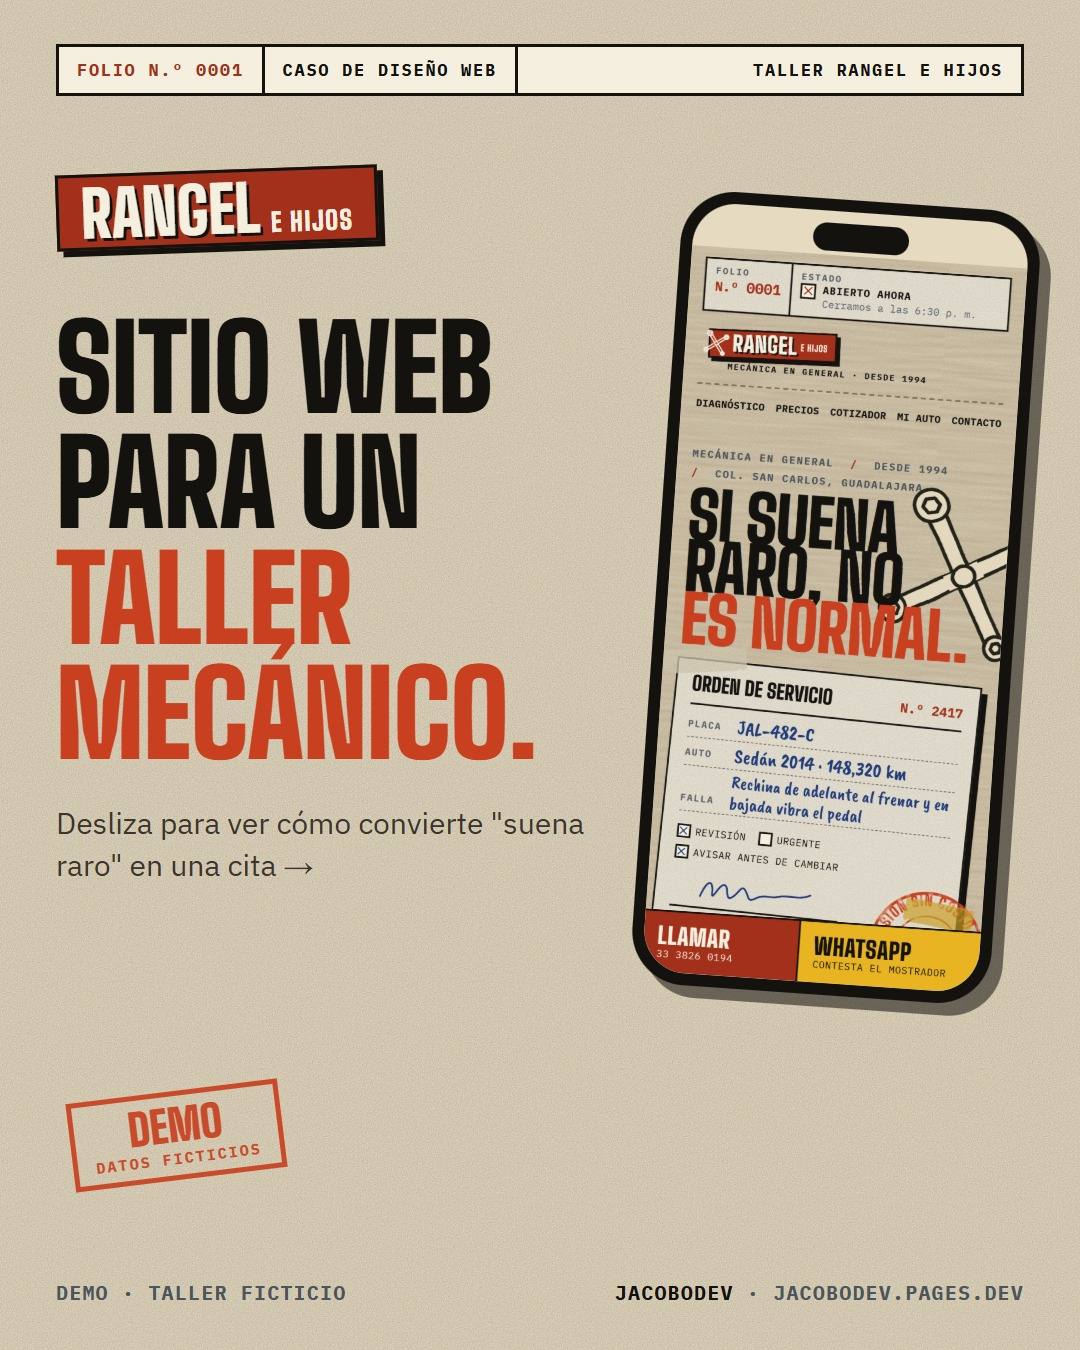
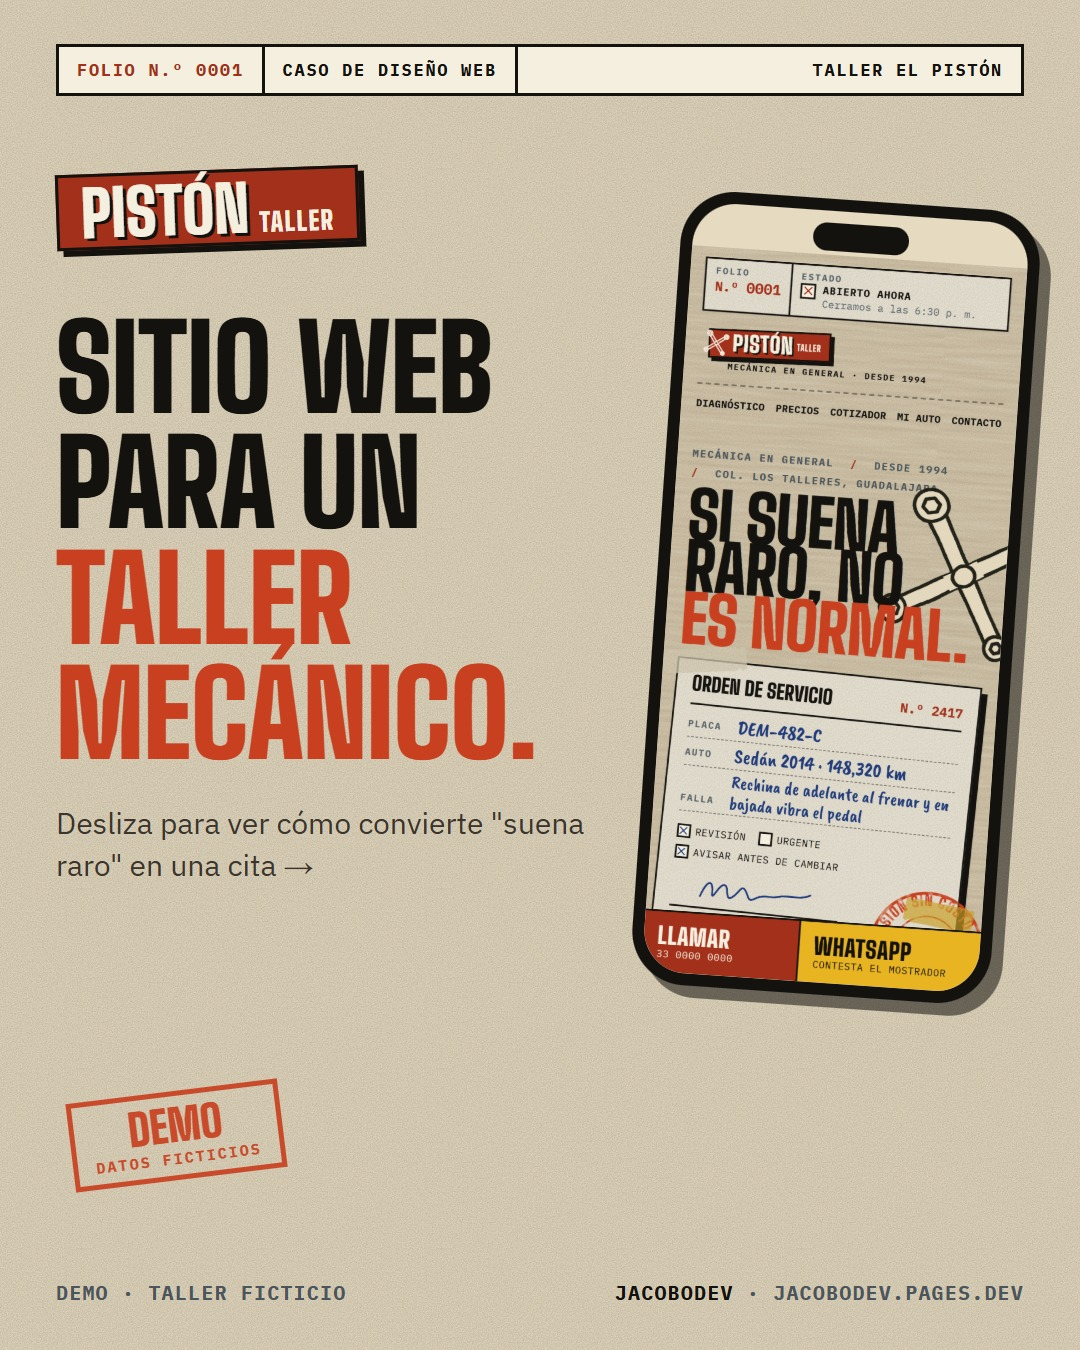
Renombra la demo a "Taller El Pistón" y quita datos que parecían reales
- Marca: Taller El Pistón (rótulo PISTÓN), slug taller-el-piston
- Teléfono 33 0000 0000, correo en dominio .example, dirección y calles
  del croquis inventadas (Calle Biela, Col. Los Talleres)
- Placas de prueba DEM-xxx-x; sin apellidos, calles ni escuelas reales
- OG, contenido para redes y videos regenerados con el nombre nuevo

diff --git a/tests/seguimiento.test.ts b/tests/seguimiento.test.ts
@@ -7,11 +7,11 @@ const orden = (placa: string) => buscarOrden(ordenesDemo, placa)!;
 
 describe('placas', () => {
   it('normaliza espacios, guiones y minúsculas', () => {
-    expect(normalizarPlaca(' jal 482-c ')).toBe('JAL482C');
+    expect(normalizarPlaca(' dem 482-c ')).toBe('DEM482C');
   });
 
   it('encuentra la orden aunque se escriba distinto', () => {
-    expect(buscarOrden(ordenesDemo, 'jal482c')?.folio).toBe('2417');
+    expect(buscarOrden(ordenesDemo, 'dem482c')?.folio).toBe('2417');
     expect(buscarOrden(ordenesDemo, 'XXX-000')).toBeUndefined();
     expect(buscarOrden(ordenesDemo, '   ')).toBeUndefined();
   });
@@ -30,14 +30,14 @@ describe('leerEstado', () => {
   });
 
   it('descarta autorizaciones con valores no numéricos', () => {
-    const e = leerEstado(JSON.stringify({ inicio: 5, autorizaciones: { 'jal-482-c': 10, x: 'y' } }), T0);
-    expect(e).toEqual({ inicio: 5, autorizaciones: { JAL482C: 10 } });
+    const e = leerEstado(JSON.stringify({ inicio: 5, autorizaciones: { 'dem-482-c': 10, x: 'y' } }), T0);
+    expect(e).toEqual({ inicio: 5, autorizaciones: { DEM482C: 10 } });
   });
 });
 
 describe('vistaOrden y autorizar', () => {
   it('ancla el historial al inicio de la demo y lo ordena', () => {
-    const v = vistaOrden(orden('JAL-482-C'), estadoInicial(T0));
+    const v = vistaOrden(orden('DEM-482-C'), estadoInicial(T0));
     expect(v.historial[0].en).toBe(T0 - 230 * 60_000);
     const horas = v.historial.map((e) => e.en);
     expect(horas).toEqual([...horas].sort((a, b) => a - b));
@@ -48,9 +48,9 @@ describe('vistaOrden y autorizar', () => {
 
   it('autorizar pasa la orden a "En reparación" y agrega el evento con hora', () => {
     const demo = estadoInicial(T0);
-    const despues = autorizar(demo, orden('JAL-482-C'), T0 + 60_000);
+    const despues = autorizar(demo, orden('DEM-482-C'), T0 + 60_000);
     expect(demo.autorizaciones).toEqual({}); // no muta
-    const v = vistaOrden(orden('JAL-482-C'), despues);
+    const v = vistaOrden(orden('DEM-482-C'), despues);
     expect(v.estado).toBe('reparacion');
     expect(v.autorizado).toBe(true);
     expect(v.puedeAutorizar).toBe(false);
@@ -58,14 +58,14 @@ describe('vistaOrden y autorizar', () => {
   });
 
   it('autorizar dos veces no cambia nada', () => {
-    const una = autorizar(estadoInicial(T0), orden('JAL-482-C'), T0 + 1);
-    expect(autorizar(una, orden('JAL-482-C'), T0 + 2)).toBe(una);
+    const una = autorizar(estadoInicial(T0), orden('DEM-482-C'), T0 + 1);
+    expect(autorizar(una, orden('DEM-482-C'), T0 + 2)).toBe(una);
   });
 
   it('no se puede autorizar una orden en diagnóstico (sin presupuesto) ni una ya lista', () => {
     const demo = estadoInicial(T0);
-    expect(autorizar(demo, orden('JKL-305-A'), T0)).toBe(demo);
-    expect(autorizar(demo, orden('JNB-226-D'), T0)).toBe(demo);
+    expect(autorizar(demo, orden('DEM-305-A'), T0)).toBe(demo);
+    expect(autorizar(demo, orden('DEM-226-D'), T0)).toBe(demo);
   });
 });
 
@@ -83,6 +83,6 @@ describe('fechaEntrega', () => {
 
 describe('totales', () => {
   it('suma refacciones, mano de obra e IVA', () => {
-    expect(totales(orden('JAL-482-C'))).toEqual({ refacciones: 870, manoObra: 1050, subtotal: 1920, iva: 307, total: 2227 });
+    expect(totales(orden('DEM-482-C'))).toEqual({ refacciones: 870, manoObra: 1050, subtotal: 1920, iva: 307, total: 2227 });
   });
 });

diff --git a/src/config/site.ts b/src/config/site.ts
@@ -14,16 +14,16 @@ export interface OpeningSlot {
 }
 
 export const site = {
-  name: 'Taller Rangel e Hijos',
+  name: 'Taller El Pistón',
   /** Palabra que se pinta en el rótulo gigante del footer y en el logo */
-  rotulo: 'RANGEL',
-  rotuloSub: 'e Hijos',
-  legalName: 'Taller Rangel e Hijos — Mecánica en general',
+  rotulo: 'PISTÓN',
+  rotuloSub: 'Taller',
+  legalName: 'Taller El Pistón — Mecánica en general',
   tagline: 'Mecánica en general desde 1994',
   slogan: 'Primero se revisa; luego se habla de dinero.',
   description:
-    'Taller mecánico de barrio en la colonia San Carlos, Guadalajara. Frenos, suspensión, afinación, clutch, A/C y diagnóstico computarizado. Revisión sin costo si la reparación se hace aquí; presupuesto por escrito y garantía de 3 meses.',
-  url: 'https://taller-rangel.pages.dev',
+    'Taller mecánico de barrio en Guadalajara. Frenos, suspensión, afinación, clutch, A/C y diagnóstico computarizado. Revisión sin costo si la reparación se hace aquí; presupuesto por escrito y garantía de 3 meses.',
+  url: 'https://taller-el-piston.pages.dev',
   locale: 'es-MX',
   ogLocale: 'es_MX',
   currency: 'MXN',
@@ -31,29 +31,29 @@ export const site = {
   foundingYear: 1994,
 
   contact: {
-    phoneDisplay: '33 3826 0194',
+    phoneDisplay: '33 0000 0000',
     /** Formato E.164 para enlaces tel: */
-    phone: '+523338260194',
+    phone: '+523300000000',
     /** WhatsApp en formato internacional sin "+" ni espacios (para wa.me) */
-    whatsapp: '523338260194',
-    email: 'mostrador@taller-rangel-demo.mx',
+    whatsapp: '523300000000',
+    email: 'mostrador@taller-el-piston.example',
   },
 
   address: {
-    street: 'Calle Gigantes 1874',
-    neighborhood: 'Col. San Carlos',
+    street: 'Calle Biela 120',
+    neighborhood: 'Col. Los Talleres',
     city: 'Guadalajara',
     region: 'Jalisco',
-    postalCode: '44460',
+    postalCode: '44100',
     country: 'MX',
-    reference: 'Sobre Gigantes, casi esquina con Calle 46: el portón verde con el rótulo rojo. Si ves la llantera de la esquina, ya te pasaste.',
+    reference: 'Sobre Biela, casi esquina con Cigüeñal: el portón verde con el rótulo rojo. Si ves la llantera de la esquina, ya te pasaste.',
     /** Calles que se dibujan en el croquis (src/components/ui/Croquis.astro) */
-    croquis: { calle: 'C. Gigantes', cruce: 'Calle 46', avenida: 'Av. Revolución', esquina: 'llantera', parada: 'parada' },
+    croquis: { calle: 'C. Biela', cruce: 'C. Cigüeñal', avenida: 'Av. Principal', esquina: 'llantera', parada: 'parada' },
     parking: 'Cabemos 6 autos adentro mientras esperas tu diagnóstico. Sobre la calle hay lugar casi siempre después de las 10 a. m.',
-    transit: 'Si dejas el auto y te vas: la parada de camión de Av. Revolución está a dos cuadras.',
+    transit: 'Si dejas el auto y te vas: la parada de camión de la avenida principal está a dos cuadras.',
   },
 
-  geo: { lat: 20.6554, lng: -103.3297 },
+  geo: { lat: 20.6597, lng: -103.3496 },
 
   /** Horario semanal. Un arreglo vacío = cerrado. */
   hours: {

diff --git a/e2e/flujos.spec.ts b/e2e/flujos.spec.ts
@@ -18,7 +18,7 @@ test.describe('Orden de servicio', () => {
     await page.goto('/contacto');
     await page.getByRole('button', { name: 'Firmar y mandar por WhatsApp' }).click();
     await expect(page.locator('[data-resumen]')).toContainText('Faltan');
-    await page.fill('#o-placa', 'jal-482-c');
+    await page.fill('#o-placa', 'dem-482-c');
     await page.fill('#o-marca', 'Nissan');
     await page.fill('#o-modelo', 'Versa');
     await page.fill('#o-anio', '2014');
@@ -29,7 +29,7 @@ test.describe('Orden de servicio', () => {
     await page.getByRole('button', { name: 'Firmar y mandar por WhatsApp' }).click();
     const wa = await popup;
     expect(decodeURIComponent(wa.url().replaceAll('+', ' '))).toContain('ORDEN DE SERVICIO');
-    expect(decodeURIComponent(wa.url().replaceAll('+', ' '))).toContain('Placa: JAL-482-C');
+    expect(decodeURIComponent(wa.url().replaceAll('+', ' '))).toContain('Placa: DEM-482-C');
   });
 });
 
@@ -54,8 +54,8 @@ test.describe('Seguimiento por placa', () => {
     const b = await context.newPage();
     await a.goto('/seguimiento');
     await a.getByRole('button', { name: 'Restablecer demo' }).click();
-    await a.getByRole('button', { name: 'JAL-482-C' }).click();
-    await b.goto('/seguimiento?placa=JAL-482-C');
+    await a.getByRole('button', { name: 'DEM-482-C' }).click();
+    await b.goto('/seguimiento?placa=DEM-482-C');
     await expect(b.locator('[aria-current="step"]')).toContainText('Autorización');
 
     await a.getByRole('button', { name: 'Autorizar reparación' }).click();
@@ -91,7 +91,7 @@ test.describe('Responsive', () => {
   for (const ancho of [360, 390, 768, 1024, 1280, 1536]) {
     test(`sin scroll horizontal a ${ancho}px`, async ({ page }) => {
       await page.setViewportSize({ width: ancho, height: 900 });
-      for (const ruta of ['/', '/servicios', '/presupuesto', '/seguimiento?placa=JHT-917-B', '/contacto', '/404']) {
+      for (const ruta of ['/', '/servicios', '/presupuesto', '/seguimiento?placa=DEM-917-B', '/contacto', '/404']) {
         await page.goto(ruta);
         const sobra = await page.evaluate(() => document.documentElement.scrollWidth - innerWidth);
         expect(sobra, `${ruta} @${ancho}`).toBeLessThanOrEqual(0);

diff --git a/src/data/equipo.ts b/src/data/equipo.ts
@@ -22,17 +22,17 @@ export interface Mecanico {
 
 export const equipo: Mecanico[] = [
   {
-    nombre: 'Ramiro Rangel',
+    nombre: 'Ramiro Ortiz',
     apodo: 'El Patrón',
     desde: 1983,
     especialidad: 'Motor y ruidos raros. Diagnostica con el oído antes que con el escáner.',
-    herramienta: 'Una Stillson de 1987 que heredó de su maestro en la calle Medrano.',
+    herramienta: 'Una Stillson de 1987 que heredó del maestro que le enseñó el oficio.',
     frase: '“Si me lo traes a tiempo, te sale barato.”',
     foto: stillson,
     fotoAlt: 'Llave Stillson y llave ajustable sobre fondo oscuro',
   },
   {
-    nombre: 'Iván Rangel',
+    nombre: 'Iván Ortiz',
     apodo: 'El Chato',
     desde: 2006,
     especialidad: 'Frenos, suspensión y dirección. Si truena en los topes, es suyo.',
@@ -52,10 +52,10 @@ export const equipo: Mecanico[] = [
     fotoAlt: 'Mano sosteniendo un multímetro digital amarillo',
   },
   {
-    nombre: 'Daniela Rangel',
+    nombre: 'Daniela Ortiz',
     apodo: 'La Inge',
     desde: 2017,
-    especialidad: 'Aire acondicionado y transmisiones automáticas. Ingeniera mecánica por la UdeG.',
+    especialidad: 'Aire acondicionado y transmisiones automáticas. Ingeniera mecánica titulada.',
     herramienta: 'El juego de manómetros del A/C. Les puso su nombre con plumón.',
     frase: '“Cargar gas sin buscar la fuga es tirar dinero.”',
     foto: manometro,

diff --git a/src/data/ordenes.ts b/src/data/ordenes.ts
@@ -52,7 +52,7 @@ export const estados: { id: EstadoId; nombre: string; corto: string }[] = [
 export const ordenesDemo: OrdenDemo[] = [
   {
     folio: '2417',
-    placa: 'JAL-482-C',
+    placa: 'DEM-482-C',
     auto: 'Sedán 2014 · 4 cilindros',
     color: 'Gris plata',
     km: 148_320,
@@ -85,7 +85,7 @@ export const ordenesDemo: OrdenDemo[] = [
   },
   {
     folio: '2418',
-    placa: 'JKL-305-A',
+    placa: 'DEM-305-A',
     auto: 'Pickup 2019 · doble cabina',
     color: 'Blanco',
     km: 92_100,
@@ -107,7 +107,7 @@ export const ordenesDemo: OrdenDemo[] = [
   },
   {
     folio: '2409',
-    placa: 'JHT-917-B',
+    placa: 'DEM-917-B',
     auto: 'SUV 2017 · automática',
     color: 'Rojo',
     km: 121_870,
@@ -138,7 +138,7 @@ export const ordenesDemo: OrdenDemo[] = [
   },
   {
     folio: '2402',
-    placa: 'JNB-226-D',
+    placa: 'DEM-226-D',
     auto: 'Compacto 2012 · estándar',
     color: 'Azul',
     km: 203_450,

diff --git a/src/lib/seguimiento.ts b/src/lib/seguimiento.ts
@@ -5,7 +5,7 @@
 import { estados, type EstadoId, type OrdenDemo } from '@/data/ordenes';
 import { IVA } from '@/lib/cotizador';
 
-export const CLAVE_DEMO = 'rangel:seguimiento:v1';
+export const CLAVE_DEMO = 'piston:seguimiento:v1';
 
 /** Lo único que se guarda en localStorage */
 export interface EstadoDemo {
@@ -29,7 +29,7 @@ export interface OrdenVista extends Omit<OrdenDemo, 'historial'> {
   entrega: number;
 }
 
-/** "jal 482c", "JAL-482-C" y "jal482c" son la misma placa. */
+/** "dem 482c", "DEM-482-C" y "dem482c" son la misma placa. */
 export const normalizarPlaca = (placa: string) => placa.toUpperCase().replace(/[^A-Z0-9]/g, '');
 
 export const pasoDe = (estado: EstadoId) => estados.findIndex((e) => e.id === estado);

diff --git a/tests/orden.test.ts b/tests/orden.test.ts
@@ -4,7 +4,7 @@ import { openStatus } from '@/lib/horario';
 import { site } from '@/config/site';
 
 const ok: DatosOrden = {
-  placa: 'jal-482-c',
+  placa: 'dem-482-c',
   marca: 'Nissan',
   modelo: 'Versa',
   anio: '2014',
@@ -37,7 +37,7 @@ describe('mensajeOrden', () => {
   it('formatea el mensaje de WhatsApp como orden de servicio', () => {
     const m = mensajeOrden(ok, '2419');
     expect(m.split('\n')[0]).toBe('*ORDEN DE SERVICIO N.º 2419*');
-    expect(m).toContain('Placa: JAL-482-C');
+    expect(m).toContain('Placa: DEM-482-C');
     expect(m).toContain('Auto: Nissan Versa 2014');
     expect(m).toContain('Kilometraje: 148,320 km');
     expect(m).toContain('Tel.: 3312345678');

diff --git a/DISENO.md b/DISENO.md
@@ -1,4 +1,4 @@
-# DISEÑO — Taller Rangel e Hijos
+# DISEÑO — Taller El Pistón
 
 > Contrato de dirección de arte. Si algo del sitio no cabe aquí, no entra.
 
@@ -79,7 +79,7 @@ El contraste de **tamaño** es el protagonista: un titular de 17 vw junto a un p
 | H | Notas de clientes | **Tablero perforado (pegboard)**: 6 papelitos de tamaños distintos clavados con tachuela o cinta sobre un fondo de agujeros | masonry manual, 3 alturas |
 | I | Preguntas | **Columna angosta de casillas**: FAQ como renglones ☐/☒ de formulario en una columna estrecha a la izquierda; a la derecha mucho vacío con una sola nota de plumón | 7 / 5 vacío intencional |
 | J | Orden de servicio (CTA) | **Hoja con talón desprendible**: formulario a la izquierda, talón perforado a la derecha con el folio y "conserve este talón" | 9 / 3 con perforación vertical |
-| K | Footer | **Rótulo gigante cortado**: "RANGEL" a 30 vw cortado por el borde inferior, datos en tabla mono arriba, croquis dibujado con marco de foto pegada (el mapa real se carga al pedirlo) | 3 bloques + rótulo a sangre |
+| K | Footer | **Rótulo gigante cortado**: "PISTÓN" a 30 vw cortado por el borde inferior, datos en tabla mono arriba, croquis dibujado con marco de foto pegada (el mapa real se carga al pedirlo) | 3 bloques + rótulo a sangre |
 
 Entre B y C va la **cinta de precaución 1**; entre H e I corre el **marquee** único; la **cinta de precaución 2** es la orilla superior del footer: es el mismo elemento en todas las páginas, así que el sitio nunca muestra más de dos cintas a la vez.
 
@@ -134,7 +134,7 @@ Reglas: textura siempre por debajo del 20 % de opacidad; máximo **una** mancha 
 1. Hero: la hoja de orden llenada a mano (placa, falla, firma).
 2. Lista de precios: "incluye filtro ✓".
 3. Lista de precios: precio tachado corregido "ya bajó".
-4. Pizarrón: "Pruébalo con la placa JAL-482-C" (con filtro de gis).
+4. Pizarrón: "Pruébalo con la placa DEM-482-C" (con filtro de gis).
 5. Equipo: "el Chato no presta su matraca".
 6. Notas de clientes: el único papelito escrito a mano.
 7. FAQ: "Pregunta lo que quieras. Aquí nadie se ríe."

diff --git a/social/copys.md b/social/copys.md
@@ -1,12 +1,12 @@
-# Copys para redes · Demo Taller Rangel e Hijos
+# Copys para redes · Demo Taller El Pistón
 
 > El taller, los mecánicos, los precios, las órdenes y las reseñas son **ficticios**. Preséntalo como demo o plantilla, no como trabajo para un cliente real.
 
 | Archivo | Formato | Uso |
 | --- | --- | --- |
-| `video/rangel-reel-interacciones-9x16.mp4` | 1080×1920 | Reel / TikTok / Shorts principal (diagnóstico, precios, odómetro, sellos, cotizador y seguimiento) |
-| `video/rangel-reel-recorrido-9x16.mp4` | 1080×1920 | Reel de recorrido con scroll suave; también para estado de WhatsApp (recórtalo a 30 s) |
-| `video/rangel-recorrido-16x9.mp4` | 1920×1080 | LinkedIn / YouTube / Facebook |
+| `video/piston-reel-interacciones-9x16.mp4` | 1080×1920 | Reel / TikTok / Shorts principal (diagnóstico, precios, odómetro, sellos, cotizador y seguimiento) |
+| `video/piston-reel-recorrido-9x16.mp4` | 1080×1920 | Reel de recorrido con scroll suave; también para estado de WhatsApp (recórtalo a 30 s) |
+| `video/piston-recorrido-16x9.mp4` | 1920×1080 | LinkedIn / YouTube / Facebook |
 | `video/*-portada.jpg` | 9:16 y 16:9 | Portada del video |
 | `carrusel/01.jpg` … `08.jpg` | 1080×1350 | Carrusel de Instagram / documento de LinkedIn |
 | `posts/01-post-escritorio-movil.jpg` | 1080×1350 | Post individual |
@@ -91,7 +91,7 @@ Texto sugerido para el sticker: **"¿Así se vería tu taller?"** + sticker de e
 
 ## LinkedIn · video 16:9
 
-Nuevo caso de diseño web: **Taller Rangel e Hijos**, un taller mecánico de barrio (demo con datos ficticios).
+Nuevo caso de diseño web: **Taller El Pistón**, un taller mecánico de barrio (demo con datos ficticios).
 
 El reto era evitar el sitio "genérico de plantilla" que tienen casi todos los talleres. La dirección de arte sale de los papeles del propio taller: la orden de servicio con folio, los sellos de goma, la lista de precios de la pared y el pizarrón con gis.
 

diff --git a/README.md b/README.md
@@ -1,6 +1,6 @@
-# Taller Rangel e Hijos: demo
+# Taller El Pistón: demo
 
-Sitio de demostración de un taller mecánico de barrio en la colonia San Carlos, Guadalajara. El taller, los mecánicos, los precios, las órdenes y las reseñas son ficticios.
+Sitio de demostración de un taller mecánico de barrio en Guadalajara. El taller, los mecánicos, los precios, las órdenes y las reseñas son ficticios.
 
 > Primero se revisa; luego se habla de dinero.
 
@@ -17,7 +17,7 @@ La dirección de arte completa está en [`DISENO.md`](DISENO.md) y la revisión 
 | `/` | Encabezado de orden con estado abierto/cerrado calculado, diagnóstico por síntoma (10 síntomas con causas, urgencia, revisiones caseras y rango de precio), lista de pared, pizarrón con odómetro, compromisos sellados, equipo, notas de clientes, preguntas y orden de servicio que abre WhatsApp |
 | `/servicios` | Los 34 servicios agrupados por sistema, con filtro, buscador y filas que se abren |
 | `/presupuesto` | Cotizador: tipo de auto, servicios y tipo de refacción. Separa refacciones y mano de obra, calcula tiempo e IVA opcional, y saca una nota de taller que se manda por WhatsApp o se imprime |
-| `/seguimiento` | Seguimiento por placa con 4 placas de prueba (`JAL-482-C`, `JKL-305-A`, `JHT-917-B`, `JNB-226-D`). "Autorizar" se guarda en el navegador y se sincroniza entre pestañas |
+| `/seguimiento` | Seguimiento por placa con 4 placas de prueba (`DEM-482-C`, `DEM-305-A`, `DEM-917-B`, `DEM-226-D`). "Autorizar" se guarda en el navegador y se sincroniza entre pestañas |
 | `/contacto` | Cómo llegar, croquis, grúa, horario y orden de servicio |
 | `/aviso-de-privacidad`, 404 | "Esta página está en el elevador" |
 

diff --git a/AUDITORIA-DISENO.md b/AUDITORIA-DISENO.md
@@ -1,4 +1,4 @@
-# Auditoría de diseño: Taller Rangel e Hijos
+# Auditoría de diseño: Taller El Pistón
 
 Revisión del sitio terminado contra `DISENO.md` y la lista negra del encargo. Hecha con capturas de Playwright a 360, 390, 768, 1024, 1280, 1440 y 1536 px (`npm run qa`), Lighthouse móvil y búsquedas en el código.
 
@@ -18,7 +18,7 @@ Revisión del sitio terminado contra `DISENO.md` y la lista negra del encargo. H
 | — | Marquee | Tira de servicios a 60 s | Cinta de rotular | 1 permitido; se pausa con el mouse y con `reduced-motion` |
 | I | Preguntas | Columna angosta de casillas ☐/☒ (`<details>`) y vacío intencional a la derecha con una nota de plumón | Renglones de formulario | Sin acordeón con chevrons ni sombras |
 | J | Orden de servicio | Hoja con talón desprendible y perforación; abre WhatsApp y tiene salida por correo | Líneas para llenar, tinta de pluma, sello "Conserve este talón" | Sin formulario de tarjeta flotante |
-| K | Footer | Cinta 2, tabla de horario, croquis dibujado pegado con cinta y "RANGEL" a 35 vw cortado por el borde inferior | Grasa, cinta, croquis | Sin cuatro columnas de enlaces genéricos |
+| K | Footer | Cinta 2, tabla de horario, croquis dibujado pegado con cinta y "PISTÓN" a 35 vw cortado por el borde inferior | Grasa, cinta, croquis | Sin cuatro columnas de enlaces genéricos |
 
 Son 11 composiciones distintas en el inicio (se pedían al menos 6).
 
